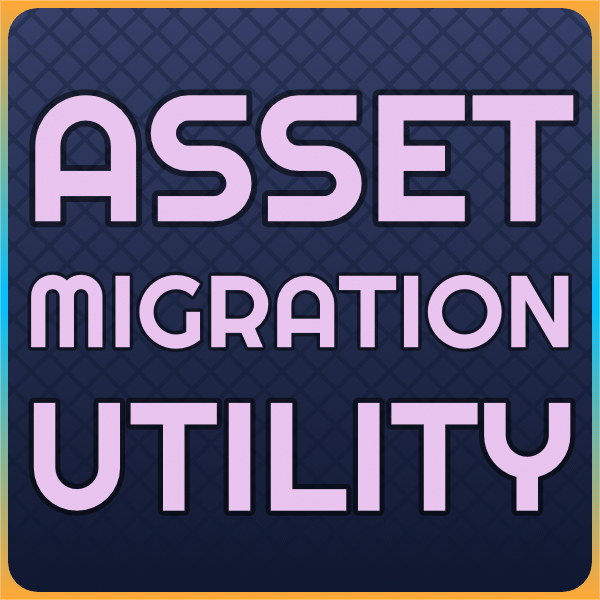
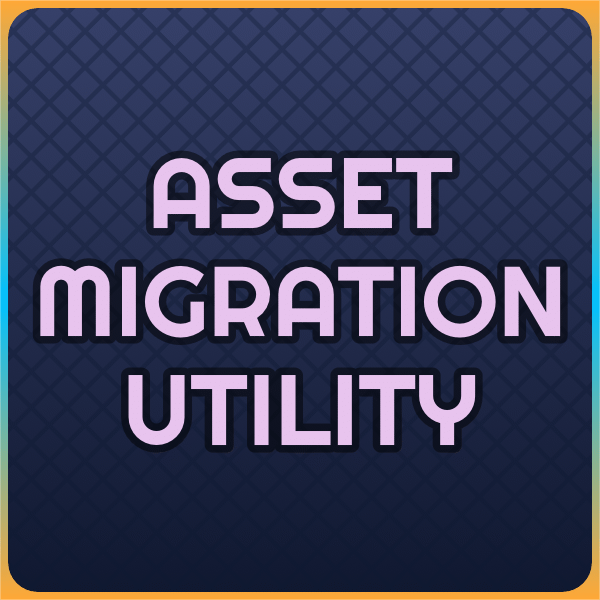
v1.0.1

diff --git a/Systems/AssetMigration.cs b/Systems/AssetMigration.cs
@@ -1,5 +1,6 @@
 using System;
 using System.Collections.Generic;
+using System.Diagnostics;
 using System.Linq;
 using System.Text.RegularExpressions;
 using Colossal.Entities;
@@ -17,8 +18,6 @@ namespace AssetMigrationUtility.Systems
 {
     public partial class AssetMigration : GameSystemBase
     {
-        public static GameMode gameMode;
-
         protected override void OnCreate()
         {
             base.OnCreate();
@@ -26,125 +25,147 @@ namespace AssetMigrationUtility.Systems
 
         protected override void OnUpdate() { }
 
-        protected override void OnGamePreload(Purpose purpose, GameMode mode)
-        {
-            base.OnGamePreload(purpose, mode);
-            gameMode = mode;
-        }
-
         protected override void OnGameLoadingComplete(Purpose purpose, GameMode mode)
         {
             base.OnGameLoadingComplete(purpose, mode);
-            if (gameMode.IsGame() && Mod.m_Setting.IsEnabled)
+            if (WorldHelper.IsGame && Mod.m_Setting.IsEnabled)
                 MigrateAssets();
         }
 
         internal void MigrateAssets()
         {
-            PrefabSystem prefabSystem = WorldHelper.PrefabSystem;
-            var eq3 = SystemAPI.QueryBuilder().WithAll<PrefabRef>().Build();
-            var ents3 = eq3.ToEntityArray(Allocator.Temp);
-
-            if (ents3.Length <= 0)
-                return;
-
-            var pm = AssetDatabase.global.GetAssets<PrefabAsset>();
-            Dictionary<string, PrefabBase> prefabAssets = new();
-            foreach (var pmItem in pm)
+            Stopwatch stopwatch = Stopwatch.StartNew();
+            string prefName = string.Empty;
+            try
             {
-                PrefabBase? prefabBase = pmItem.GetInstance<PrefabBase>();
+                PrefabSystem prefabSystem = WorldHelper.PrefabSystem;
+                var eq3 = SystemAPI.QueryBuilder().WithAll<PrefabRef>().Build();
+                var ents3 = eq3.ToEntityArray(Allocator.Temp);
 
-                if (
-                    prefabBase is AssetPackPrefab
-                    || prefabBase is ContentPrefab
-                    || prefabBase is EffectPrefab
-                    || prefabBase is ProcessingRequirementPrefab
-                    || prefabBase is RenderPrefab
-                    || prefabBase is StrictObjectBuiltRequirementPrefab
-                    || prefabBase is UIAssetCategoryPrefab
-                    || prefabBase is UIAssetMenuPrefab
-                    || prefabBase is WaterRenderSettingsPrefab
-                )
-                    continue;
+                if (ents3.Length <= 0)
+                    return;
 
-                string typename =
-                    $"{prefabBase.GetType().Name}:{prefabBase.GetPrefabID().GetName()}";
-                if (
-                    prefabBase != null
-                    && prefabBase.asset != null
-                    && !prefabAssets.ContainsKey(typename)
-                )
-                    prefabAssets[typename] = prefabBase;
+                var pm = AssetDatabase.global.GetAssets<PrefabAsset>();
+                Dictionary<string, PrefabBase> prefabAssets = new();
+                foreach (var pmItem in pm)
+                {
+                    PrefabBase? prefabBase = pmItem.GetInstance<PrefabBase>();
+
+                    if (
+                        prefabBase == null
+                        || prefabBase is AssetPackPrefab
+                        || prefabBase is ContentPrefab
+                        || prefabBase is EffectPrefab
+                        || prefabBase is ProcessingRequirementPrefab
+                        || prefabBase is RenderPrefab
+                        || prefabBase is StrictObjectBuiltRequirementPrefab
+                        || prefabBase is UIAssetCategoryPrefab
+                        || prefabBase is UIAssetMenuPrefab
+                        || prefabBase is WaterRenderSettingsPrefab
+                    )
+                        continue;
+                    prefName = prefabBase.name;
+
+                    string typename =
+                        $"{prefabBase.GetType().Name}:{prefabBase.GetPrefabID().GetName()}";
+
+                    if (prefabBase.asset != null && !prefabAssets.ContainsKey(typename))
+                        prefabAssets[typename] = prefabBase;
+
+                    if (prefabBase.TryGet(out ObsoleteIdentifiers obs))
+                    {
+                        if (obs.m_PrefabIdentifiers.Length > 0)
+                        {
+                            foreach (var item in obs.m_PrefabIdentifiers)
+                            {
+                                prefabAssets[$"{item.m_Type}:{item.m_Name}"] = prefabBase;
+                            }
+                        }
+                    }
+                }
+
+                var sortedDict = prefabAssets
+                    .OrderBy(x => x.Key)
+                    .ToDictionary(x => x.Key, x => x.Value);
+
+                List<string> notFound = new();
+
+                foreach (var entity in ents3)
+                {
+                    try
+                    {
+                        EntityManager.TryGetComponent(entity, out PrefabRef prefabRef);
+                        bool isEnabled = EntityManager.IsComponentEnabled<PrefabData>(
+                            prefabRef.m_Prefab
+                        );
+                        if (isEnabled)
+                            continue;
+
+                        var obs = prefabSystem.GetObsoleteID(prefabRef.m_Prefab);
+
+                        var reg = Regex.Match(
+                            obs.ToString(),
+                            "^(.+?):(.+?)(?:\\s+\\(([A-Za-z0-9]{32})\\))?$"
+                        );
+
+                        if (!reg.Success)
+                            continue;
+
+                        var pType = reg?.Groups[1]?.Value;
+                        var pName = reg?.Groups[2]?.Value;
+
+                        if (string.IsNullOrEmpty(pType) || string.IsNullOrEmpty(pName))
+                        {
+                            LogHelper.SendLog(
+                                $"Fail: {obs} (Unable to deduce PrefabName or PrefabType)",
+                                LogLevel.Error
+                            );
+                            continue;
+                        }
+
+                        if (notFound.Contains($"{pType}:{pName}"))
+                            continue;
+
+                        if (!sortedDict.TryGetValue($"{pType}:{pName}", out PrefabBase pb))
+                        {
+                            notFound.Add($"{pType}:{pName}");
+                            continue;
+                        }
+                        if (!prefabSystem.TryGetEntity(pb, out Entity prefabEntity))
+                        {
+                            LogHelper.SendLog(
+                                $"Failed search for {pType}:{pName} (Entity not found)",
+                                LogLevel.Error
+                            );
+                            continue;
+                        }
+                        prefabRef.m_Prefab = prefabEntity;
+                        EntityManager.SetComponentData(entity, prefabRef);
+                        EntityManager.AddComponent<Updated>(prefabRef.m_Prefab);
+                        EntityManager.AddComponent<Updated>(entity);
+                        LogHelper.SendLog($"Successfully swapped {pType}:{pName}");
+                    }
+                    catch (Exception ex)
+                    {
+                        LogHelper.SendLog(ex, LogLevel.Error);
+                    }
+                }
+                if (notFound.Count > 0)
+                    LogHelper.SendLog("PrefabBase not found:\n" + string.Join("\n", notFound));
             }
-
-            var sortedDict = prefabAssets
-                .OrderBy(x => x.Key)
-                .ToDictionary(x => x.Key, x => x.Value);
-
-            List<string> notFound = new();
-
-            foreach (var entity in ents3)
+            catch (Exception ex)
             {
-                try
-                {
-                    EntityManager.TryGetComponent(entity, out PrefabRef prefabRef);
-                    bool isEnabled = EntityManager.IsComponentEnabled<PrefabData>(
-                        prefabRef.m_Prefab
-                    );
-                    if (isEnabled)
-                        continue;
-
-                    var obs = prefabSystem.GetObsoleteID(prefabRef.m_Prefab);
-
-                    var reg = Regex.Match(
-                        obs.ToString(),
-                        "^(.+?):(.+?)(?:\\s+\\(([A-Za-z0-9]{32})\\))?$"
-                    );
-
-                    if (!reg.Success)
-                        continue;
-
-                    var pType = reg?.Groups[1]?.Value;
-                    var pName = reg?.Groups[2]?.Value;
-
-                    if (string.IsNullOrEmpty(pType) || string.IsNullOrEmpty(pName))
-                    {
-                        LogHelper.SendLog(
-                            $"Fail: {obs} (Unable to deduce PrefabName or PrefabType)",
-                            LogLevel.Error
-                        );
-                        continue;
-                    }
-
-                    if (notFound.Contains($"{pType}:{pName}"))
-                        continue;
-
-                    if (!sortedDict.TryGetValue($"{pType}:{pName}", out PrefabBase pb))
-                    {
-                        notFound.Add($"{pType}:{pName}");
-                        continue;
-                    }
-                    if (!prefabSystem.TryGetEntity(pb, out Entity prefabEntity))
-                    {
-                        LogHelper.SendLog(
-                            $"Failed search for {pType}:{pName} (Entity not found)",
-                            LogLevel.Error
-                        );
-                        continue;
-                    }
-                    prefabRef.m_Prefab = prefabEntity;
-                    EntityManager.SetComponentData(entity, prefabRef);
-                    EntityManager.AddComponent<Updated>(prefabRef.m_Prefab);
-                    EntityManager.AddComponent<Updated>(entity);
-                    LogHelper.SendLog($"Successfully swapped {pType}:{pName}");
-                }
-                catch (Exception ex)
-                {
-                    LogHelper.SendLog(ex, LogLevel.Error);
-                }
+                LogHelper.SendLog($"Stopped on {prefName}");
+                LogHelper.SendLog(ex);
             }
-            if (notFound.Count > 0)
-                LogHelper.SendLog("PrefabBase not found:\n" + string.Join("\n", notFound));
+            finally
+            {
+                stopwatch.Stop();
+
+                LogHelper.SendLog(
+                    $"Migration process completed in {stopwatch.Elapsed.Duration()}s"
+                );
+            }
         }
     }
 }
